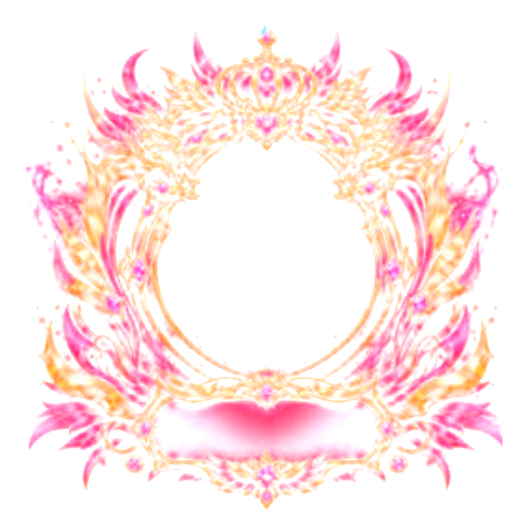
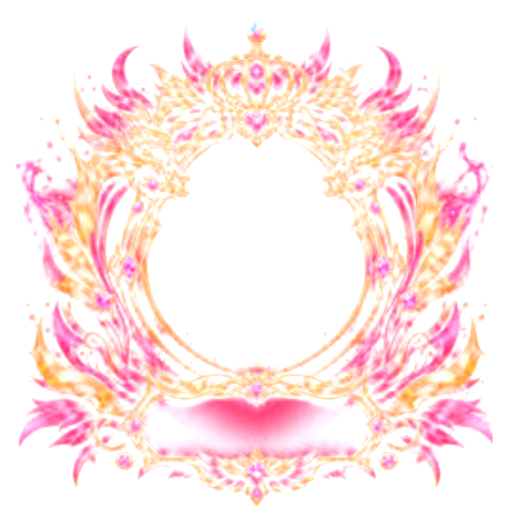
Extra Services back in the menu; rings centred and animated
- Growth menu: Extra Services is restored next to Social Media & Ads
  (route "requests"). The social page itself is unchanged.
- Rings: each artwork is re-centred so its opening sits exactly on the
  photo's centre, so the ring is even all round at every size.
- Rings animate: the halo spins, the artwork slowly orbits, and the glow
  pulses from the avatar itself. Reduced-motion users get static rings.
- Tests: rings config 72/0, DB 49/0, rings browser probe passes, brief
  probe 72/0 (adds the Extra Services menu check). Service worker v75.

diff --git a/public/css/components.css b/public/css/components.css
@@ -2313,6 +2313,8 @@ body.ip-open {
   position: relative;
   overflow: visible;
   isolation: isolate;
+  border-radius: 50%;
+  animation: ring-glow 2.4s ease-in-out infinite;
 }
 .avatar[data-ring] > img { border-radius: 50%; }
 .avatar[data-ring]::before,
@@ -2324,7 +2326,6 @@ body.ip-open {
   background: conic-gradient(from 0deg, #ff2fb9, #ffd23f, #2ee6ff, #8b5cff, #ff2fb9);
   -webkit-mask: radial-gradient(circle closest-side, transparent 64%, #000 67.5%);
           mask: radial-gradient(circle closest-side, transparent 64%, #000 67.5%);
-  filter: drop-shadow(0 0 5px rgba(255, 255, 255, 0.45));
   animation: ring-spin 3.2s linear infinite;
   pointer-events: none;
   z-index: -1;
@@ -2339,16 +2340,18 @@ body.ip-open {
           mask: radial-gradient(circle closest-side, transparent 62%, #000 66%);
   pointer-events: none;
   z-index: 2;
-  animation: ring-breathe 2.6s ease-in-out infinite;
+  animation: ring-orbit 22s linear infinite;
 }
 .avatar[data-ring][data-ring-blend="screen"]::after,
 .chat-avatar[data-ring][data-ring-blend="screen"]::after { mix-blend-mode: screen; }
 @keyframes ring-spin { to { transform: rotate(360deg); } }
-@keyframes ring-breathe {
-  0%, 100% { transform: scale(1); }
-  50% { transform: scale(1.05); }
+@keyframes ring-orbit { to { transform: rotate(-360deg); } }
+@keyframes ring-glow {
+  0%, 100% { box-shadow: 0 0 8px 2px rgba(255, 47, 185, 0.35), 0 0 18px 4px rgba(46, 230, 255, 0.15); }
+  50%      { box-shadow: 0 0 18px 6px rgba(255, 210, 63, 0.55), 0 0 30px 10px rgba(139, 92, 255, 0.35); }
 }
 @media (prefers-reduced-motion: reduce) {
+  .avatar[data-ring], .chat-avatar[data-ring],
   .avatar[data-ring]::before, .chat-avatar[data-ring]::before,
   .avatar[data-ring]::after, .chat-avatar[data-ring]::after { animation: none; }
 }

diff --git a/public/js/modules/dashboard/shell.js b/public/js/modules/dashboard/shell.js
@@ -57,6 +57,7 @@ export const NAV = [
       { id: "marketplace", label: "Marketplace", icon: "package" },
       { id: "community", label: "Community", icon: "messages-square" },
       { id: "marketing", label: "Social Media & Ads", icon: "megaphone" },
+      { id: "requests", label: "Extra Services", icon: "sparkles" },
       { id: "support", label: "Customer Support", icon: "life-buoy" },
       { id: "messages", label: "Messages", icon: "messages-square" },
       { id: "groups", label: "Groups", icon: "users" },

diff --git a/public/sw.js b/public/sw.js
@@ -17,7 +17,7 @@
    Bump VERSION when shipping breaking asset changes.
    ========================================================================== */
 
-const VERSION = "shinzora-v74";
+const VERSION = "shinzora-v75";
 const STATIC_CACHE = `${VERSION}-static`;
 const OFFLINE_URL = "/offline.html";
 
